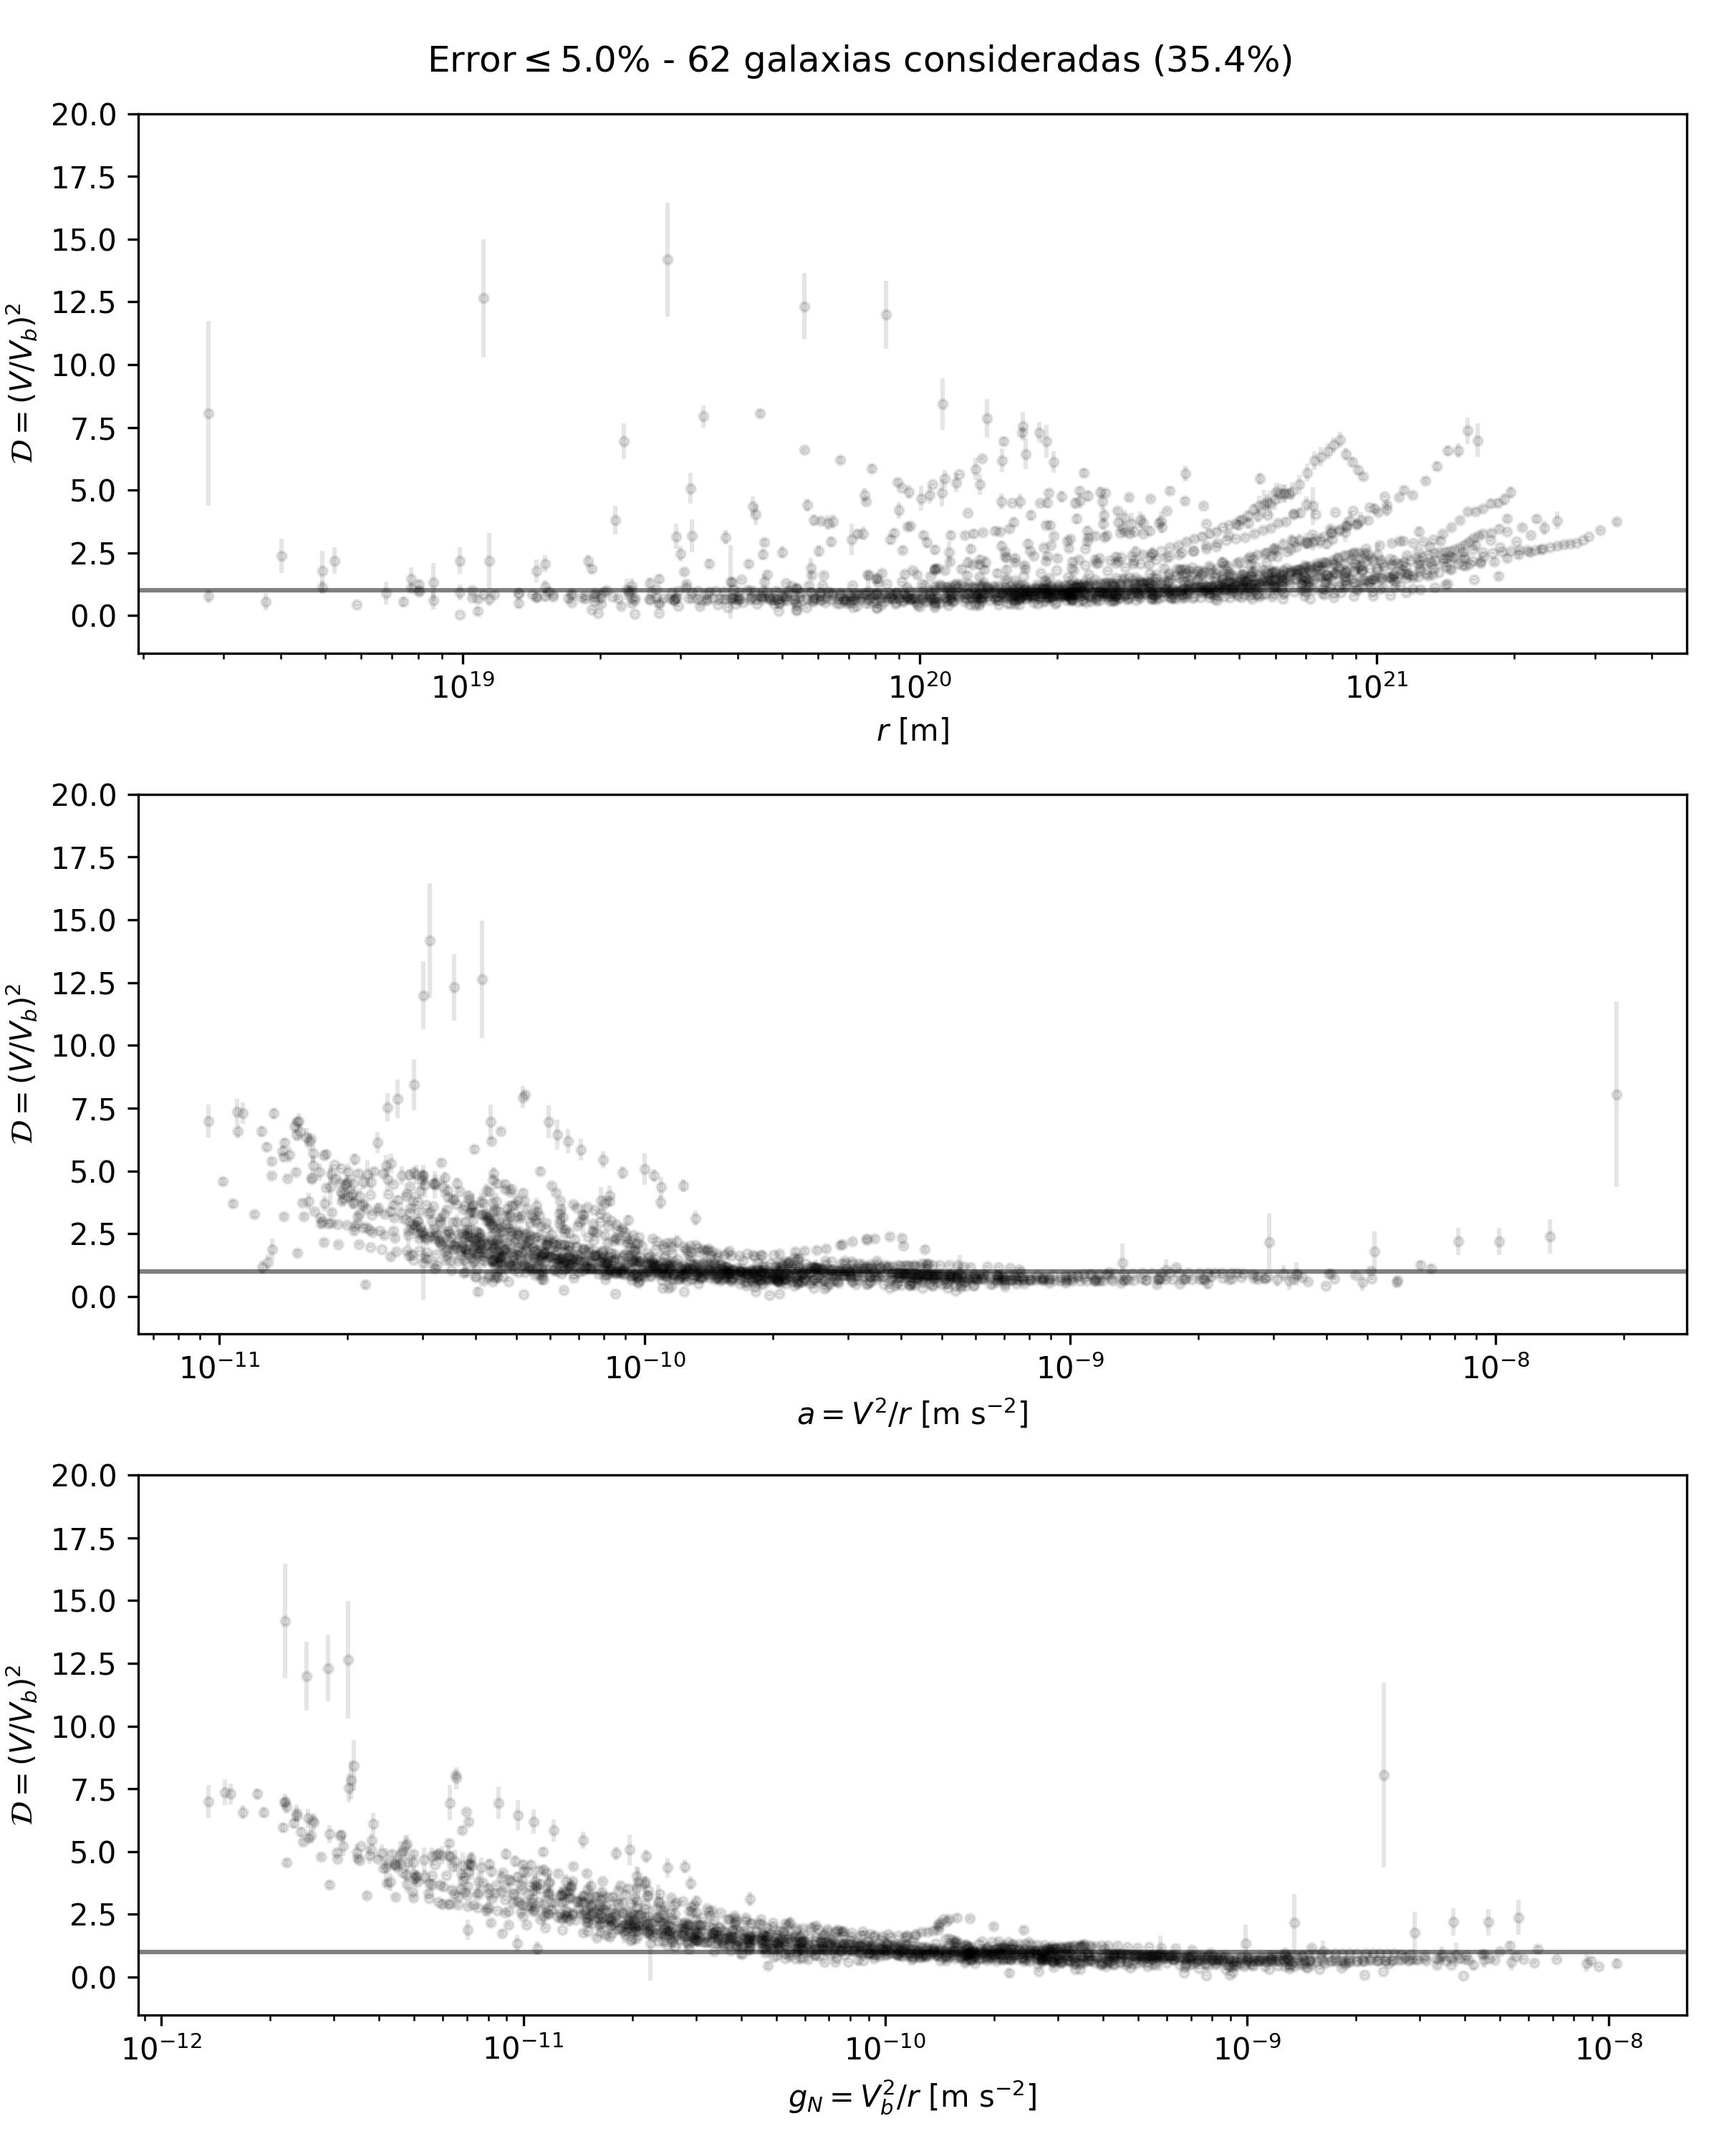
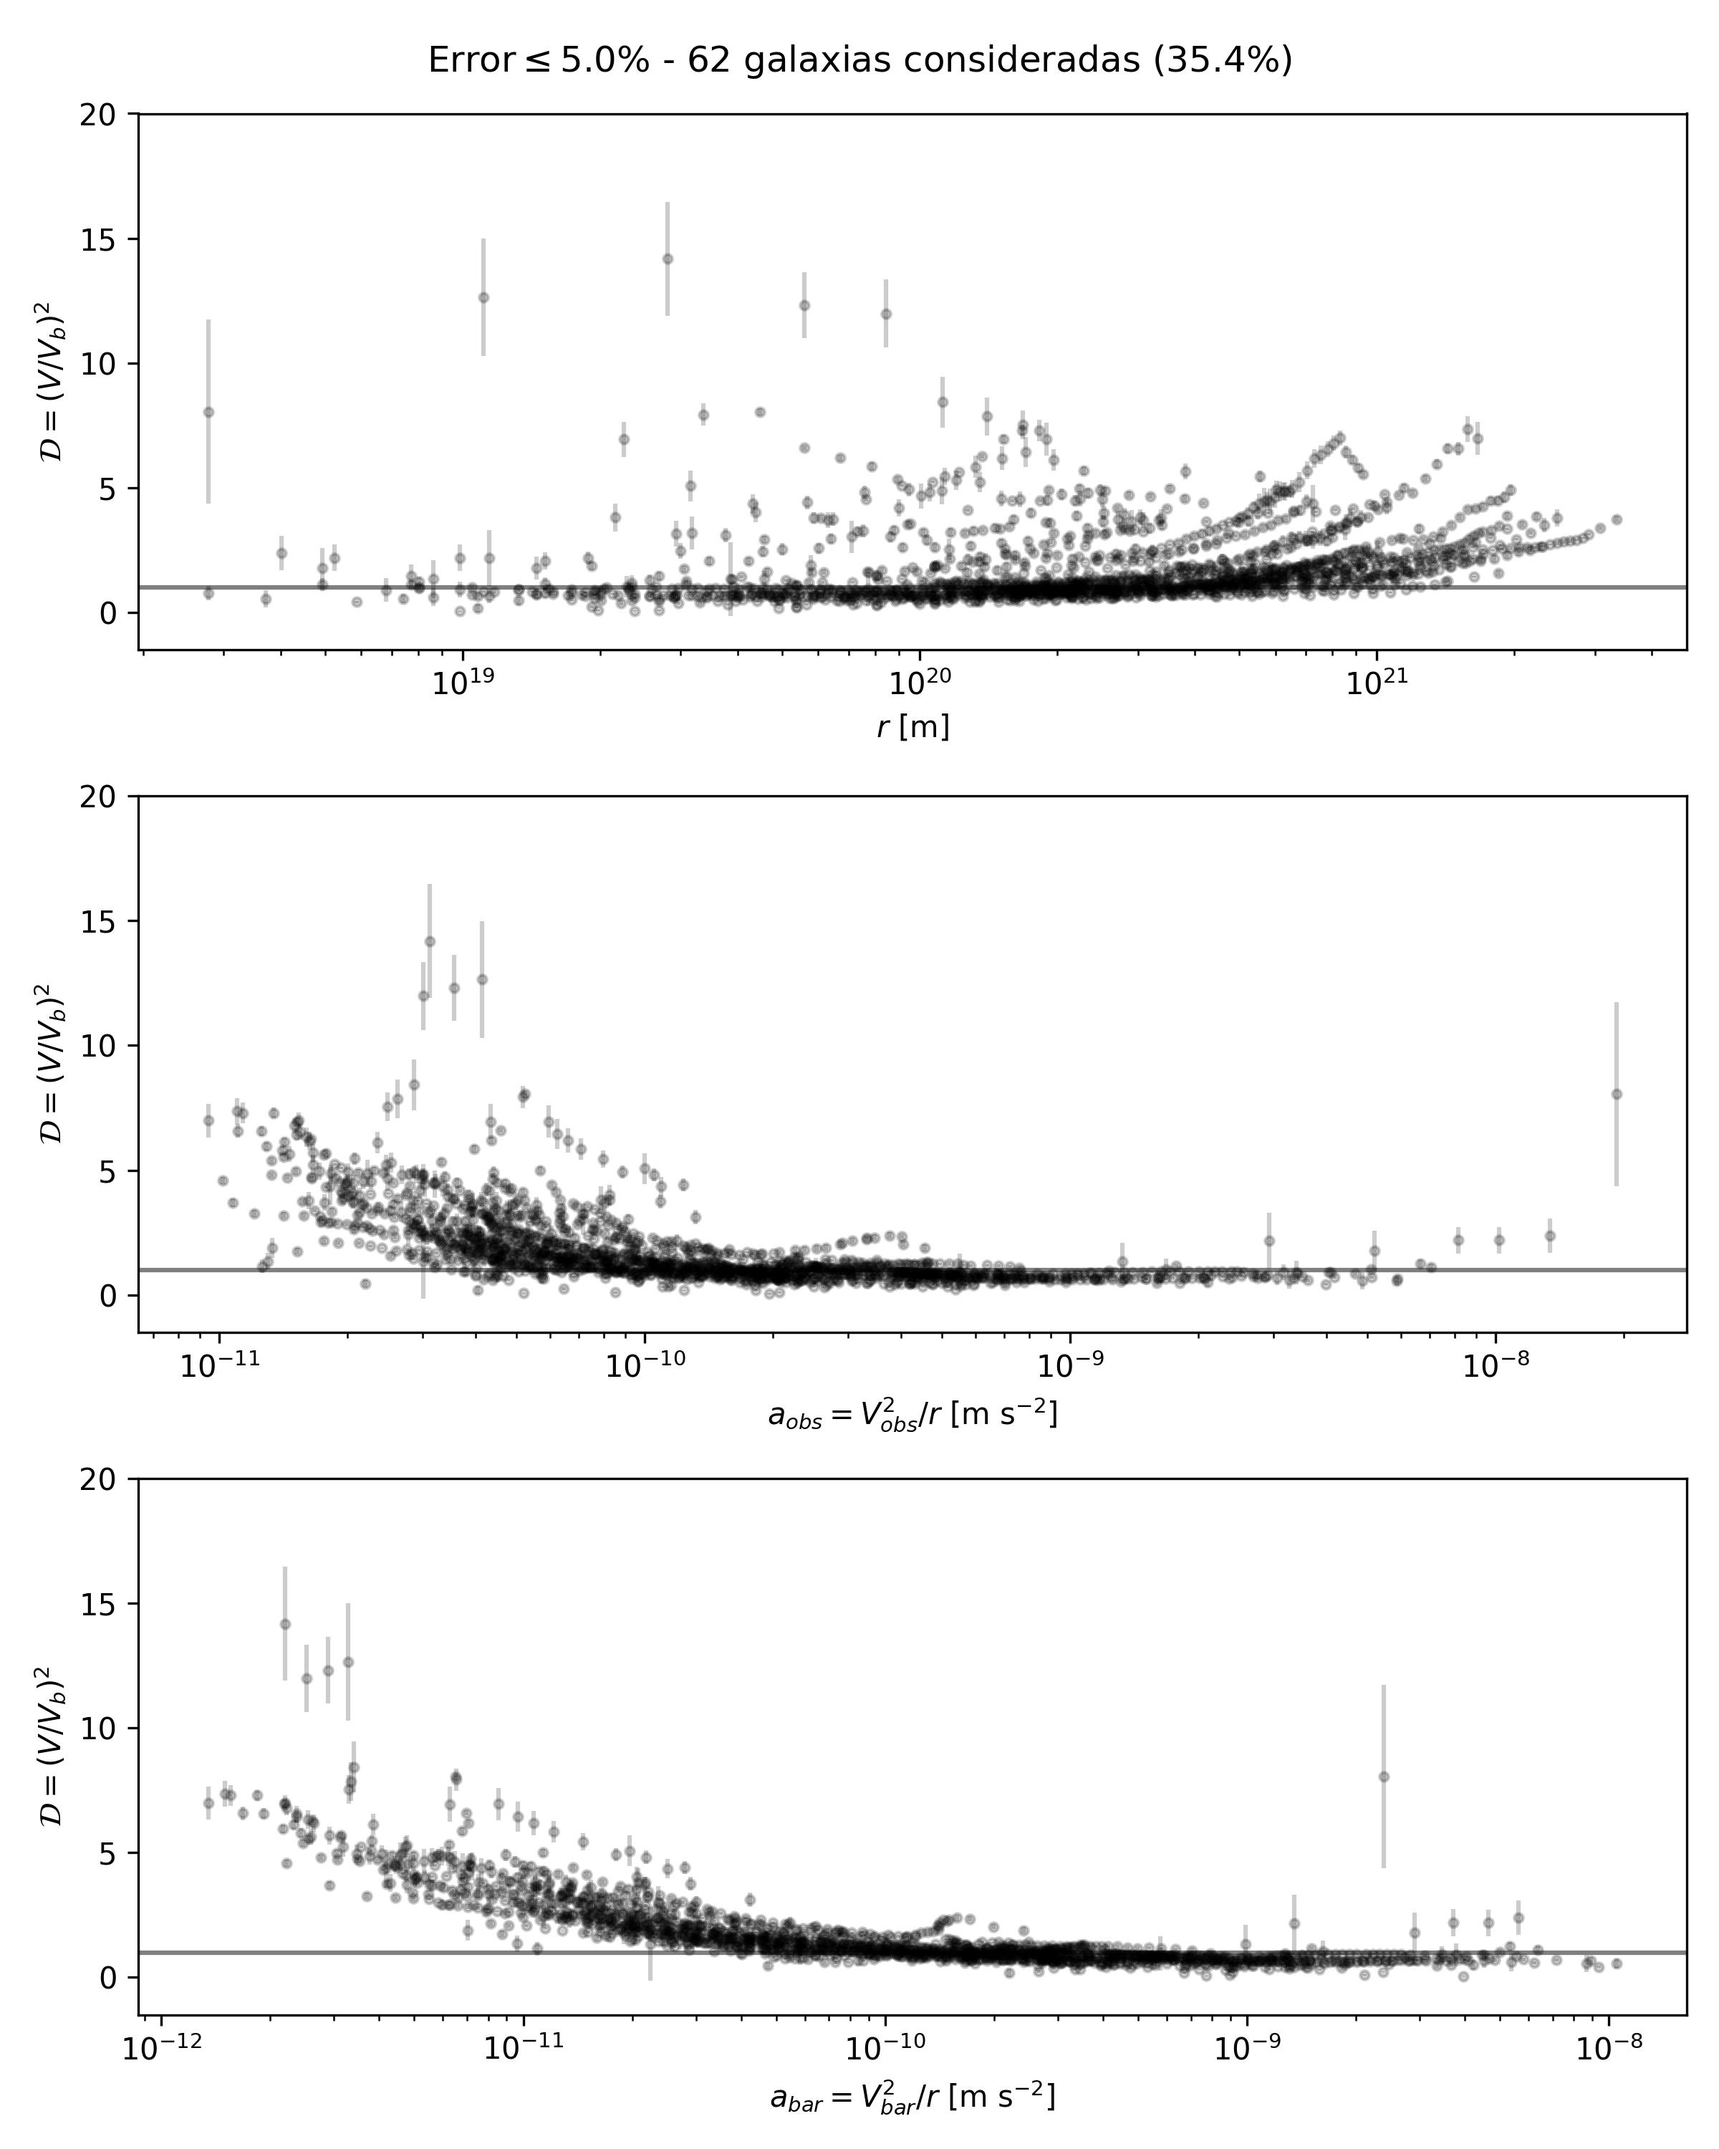
ajuste fallido func. de interpolación

diff --git a/mass_discrepancy/v3_mass_discrepancy.py b/mass_discrepancy/v3_mass_discrepancy.py
@@ -4,8 +4,14 @@ numpy==2.2.6
 
 Este código se divide en tres:
 1. Extracción de datos
-2. La física
-3. Generación de gráficos
+2. Control de calidad
+3. La física
+4. Generación de gráficos
+
+Este código:
+Grafica la discrepancia de masa para las galaxias que cumplan cuyas incertezas sean menores al criterio establecido por 'control_calidad'; respecto al radio, aceleración observacional y aceleración bariónica.
+
+Convierte a NAN los datos de vbar (velocidad bariónica) que correspondan a valores negativos de vgas (velocidad del gas), puesto que estos no son representativos de la dinámica galáctica general. Posteriormente, realiza diversos cálculos y guarda los resultados en vectores. Con el propósito de luego ajustarles una curva datos dada por $\mu (x)^{-1}$.
 '''
 
 import matplotlib.pyplot as plt
@@ -13,56 +19,105 @@ import numpy as np
 import pandas as pd
 import glob
 import os
+from scipy.optimize import curve_fit
 
-control_calidad = 0.05 # Mientras más bajo, mejor. Si es igual a cero, se ignora
-total_galaxias = 0
+# Controles del análisis
+control_calidad = 0.05 # Menor valor, criterio más estricto. Si es igual a cero, se ignora
+ignorar_valores_negativos = True
+
+total_galaxias = 175
 galaxias_consideradas = 0
+
+# Arrays para guardado de datos
+Discrepancia = np.array([], dtype='f')
+Error_discrepancia = np.array([], dtype='f')
+Radio = np.array([], dtype='f')
+Aceleracion_observable = np.array([], dtype='f')
+Aceleracion_barionica = np.array([], dtype='f')
+
+# mu_simple(x) = x/1+x
+# mu_estandar(x) = x/sqrt(1+x^2); x = a/a_0
+# a es la variable independiente
+def mu_inv_simple(a, a_0): return (a/a_0)/(1 - (a/a_0))
+def mu_inv_estandar(a, a_0): return (a/a_0)/np.sqrt(1 - (a/a_0)**2)
+
 
 # EXTRACCIÓN DE DATOS
 ruta = os.getcwd()
 archivos_dat = glob.glob(os.path.join(ruta, '../Rotmod_LTG/*.dat'))
 
-def calculo_discrepancia_masa(archivo):
+for archivo in archivos_dat:
     # Obtiene los datos de un archivo .dat determinado
     datos = pd.read_table(archivo, skiprows=3, sep=r'\s+', names=['Rad', 'Vobs', 'errV', 'Vgas', 'Vdisk', 'Vbul', 'SBdisk',	'SBbul'])
 
-    # Guarda los datos en variables 
     radio, vobs, errv, vgas, vdisk, vbul = datos['Rad'], datos['Vobs'], datos['errV'], datos['Vgas'], datos['Vdisk'], datos['Vbul']
-    # print(vobs, vgas, vdisk, vbul)
 
+    # CONTROL DE CALIDAD
+    error = np.average(errv/vobs)
+    if error > control_calidad: continue
+    galaxias_consideradas += 1
+
+    # Los valores de la velocidad bariónica se vuelven nan si corresponden a valores de vgas negativos
+    if ignorar_valores_negativos:
+        mascara_negativos = vgas < 0
+        if mascara_negativos.any():
+            ultimo_indice_vgas_negativo = np.where(mascara_negativos)[0][-1]
+            # .iloc modifica las filas por su posición (desde 0 hasta el índice)
+            vgas.iloc[:ultimo_indice_vgas_negativo + 1] = np.nan
+            # vdisk.iloc[:ultimo_indice_vgas_negativo + 1] = np.nan
+            # vbul.iloc[:ultimo_indice_vgas_negativo + 1] = np.nan
+    
     # FÍSICA
     # kpc -> m
     radio = radio * 3.086e19
     # v: km/s -> m/s
     vobs, vgas, vdisk, vbul, errv = 1e3*vobs, 1e3*vgas, 1e3*vdisk, 1e3*vbul, 1e3*errv
 
-    # Calcula la discrepancia de masa (D)
-    #vbar_2 = vbar^2
-    vbar_2 = vgas**2 + vdisk**2 + vbul**2
+    Y_disk = 0.5 # Según Lelli et al. (2016), valor más realista para el Near-InfraRed (NIR)
+    Y_bul = 1.4 * Y_disk # Lelli et al. (2016)
+
+    # vbar_2 = vbar^2
+    vbar_2 = abs(vgas)*vgas + Y_disk*abs(vdisk)*vdisk + Y_bul*abs(vbul)*vbul
     D = vobs**2/vbar_2
     errD = 2*D*errv/vobs # Asumiendo que los errores en vbar son cero
-    a = vobs**2/radio
-    g_n = vbar_2/radio
+    a_obs = vobs**2/radio
+    a_bar = vbar_2/radio
+    # return D, radio, a_obs, a_bar, error, errD
 
-    if control_calidad > 0:
-        error = np.average(errv/vobs)
-    return D, radio, a, g_n, error, errD
+    Discrepancia            = np.append(Discrepancia, D)
+    Error_discrepancia      = np.append(Error_discrepancia, errD)
+    Radio                   = np.append(Radio, radio)
+    Aceleracion_observable  = np.append(Aceleracion_observable, a_obs)
+    Aceleracion_barionica   = np.append(Aceleracion_barionica, a_bar)
 
+# Discrepancia            = Discrepancia[~np.isnan(Discrepancia)]
+# Error_discrepancia      = Error_discrepancia[~np.isnan(Error_discrepancia)]
+# Aceleracion_barionica   = Aceleracion_barionica[~np.isnan(Aceleracion_barionica)]
+
+
+# print(len(Discrepancia          ))
+# print(len(Error_discrepancia    ))
+# print(len(Radio                 ))
+# print(len(Aceleracion_observable))
+# print(len(Aceleracion_barionica ))
+
+popt_aobs, pcov_aobs = curve_fit(mu_inv_simple, Aceleracion_observable, Discrepancia, bounds=(10**(-11), 10**(-9)), nan_policy='omit')
+popt_abar, pcov_abar = curve_fit(mu_inv_simple, Aceleracion_barionica, Discrepancia, bounds=(10**(-11), 10**(-9)), nan_policy='omit')
+
+print(popt_aobs, pcov_aobs)
+print(popt_abar, pcov_abar)
 
 # GENERACIÓN DE GRÁFICOS
 fig, (ax1, ax2, ax3) = plt.subplots(3, 1, figsize=(8, 10), dpi=300)
+x = np.linspace(10**(-8), 10**(-11))
 
-for archivo in archivos_dat:
-    D, radio, a, g_n, error, errD = calculo_discrepancia_masa(archivo)
-    total_galaxias += 1
-    if error <= control_calidad:
-        ax1.errorbar(radio, D, errD, fmt='k.', alpha=0.2) 
-        ax2.errorbar(a, D, errD, fmt='k.', alpha=0.2)
-        ax3.errorbar(g_n, D, errD, fmt='k.', alpha=0.2)
+ax1.errorbar(Radio, Discrepancia, Error_discrepancia, fmt='k.', alpha=0.2) 
 
+ax2.errorbar(Aceleracion_observable, Discrepancia, Error_discrepancia, fmt='k.', alpha=0.2)
+ax2.plot(x, mu_inv_simple(x, popt_aobs), color='red')
 
-
-        galaxias_consideradas += 1
+ax3.errorbar(Aceleracion_barionica, Discrepancia, Error_discrepancia, fmt='k.', alpha=0.2)
+ax3.plot(x, mu_inv_simple(x, popt_abar), color='red')
 
 for ax in (ax1, ax2, ax3):
     ax.set_ylim(-1.5, 20)
@@ -72,12 +127,12 @@ for ax in (ax1, ax2, ax3):
     ax.axhline(y=1, xmin=0, xmax=1, color='black', alpha=0.5)
 
 ax1.set_xlabel(r'$r$ [m]')
-ax2.set_xlabel(r'$a = V^2/r$ [m s$^{-2}$]')
-ax3.set_xlabel(r'$g_N = V_b^2/r$ [m s$^{-2}$]')
+ax2.set_xlabel(r'$a_{obs} = V_{obs}^2/r$ [m s$^{-2}$]')
+ax3.set_xlabel(r'$a_{bar} = V_{bar}^2/r$ [m s$^{-2}$]')
 
 fig.suptitle(f'Error' r'$\leq$' f'{control_calidad*100}% - {galaxias_consideradas} galaxias consideradas ({(galaxias_consideradas/total_galaxias)*100:.1f}%)')
 fig.tight_layout()
-fig.savefig('figuras/D_vs_radio-a-gn.jpg')
+fig.savefig('figuras/D_vs_radio-aobs-abar_nf.jpg') #nf = nueva fórmula
 
 print(f'De {total_galaxias} galaxias, {galaxias_consideradas} fueron consideradas ({(galaxias_consideradas/total_galaxias)*100:.1f}%). ')
 plt.close()
